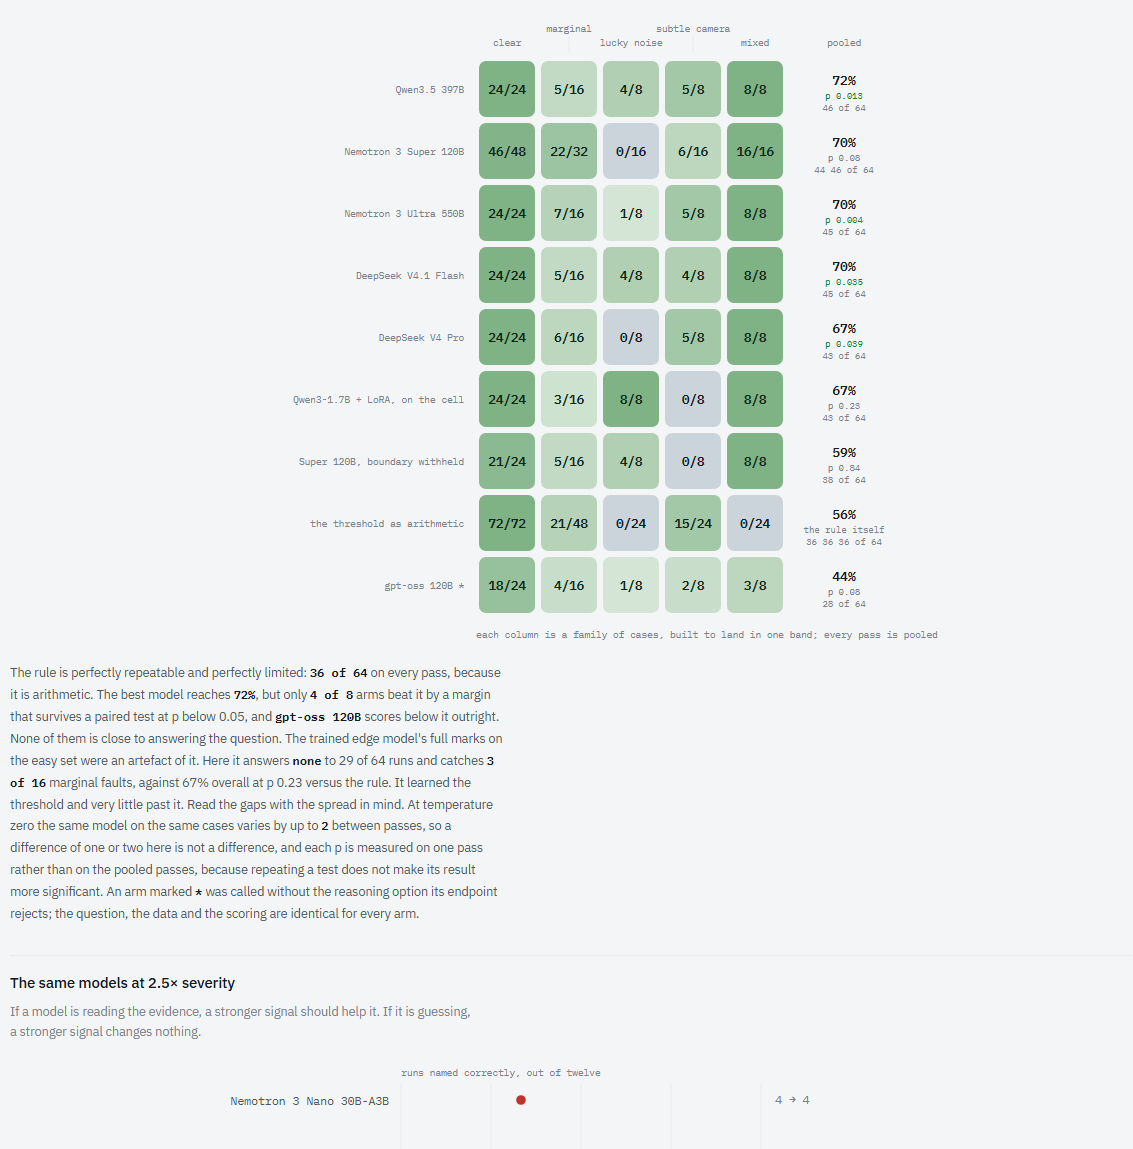
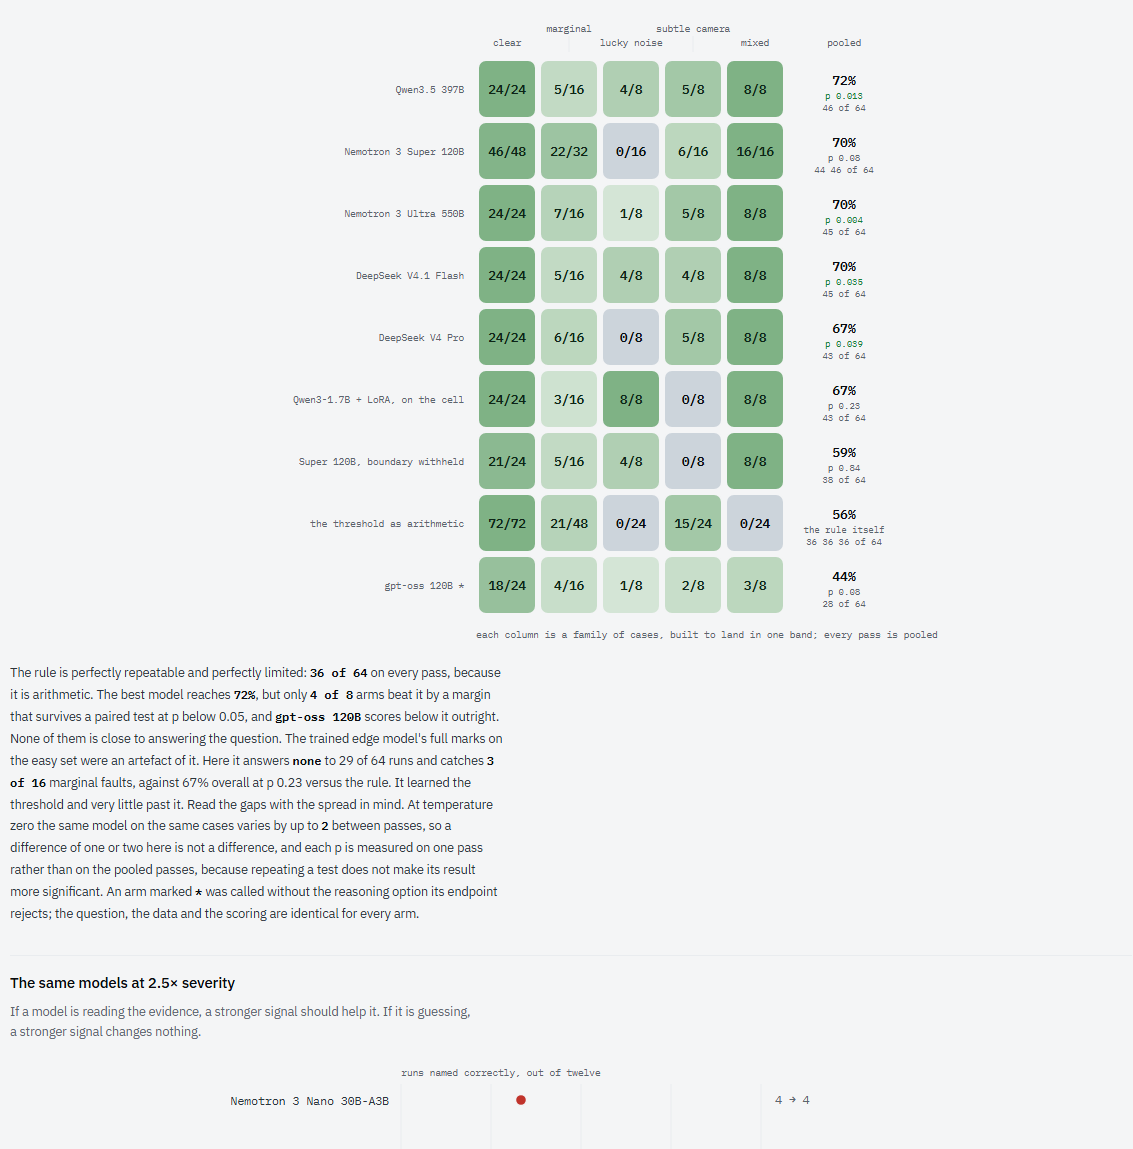
Stop following the desktop theme, and put real black in the light one
The dashboard was still opening dark. Light was the bare :root but a
prefers-color-scheme block sat under it, so a reader on a dark desktop got a
dark page after asking for a light one. That block is gone from the stylesheet,
from the 3D studio and from the toggle's own reading of the current theme.
Light is the page now; dark is opt in through the switch, and the choice sticks.

The light ink was too grey. Measured against the white card it went from 17.5,
7.3 and 3.9 to one, up to 19.7, 12.6 and 6.0. The muted step is the one that
mattered: 3.87 is under the 4.5 floor for normal text, and it is what every hint
and axis label on this dashboard is set in, so the smallest text on the page was
the least legible.

diff --git a/dashboard/static/theme.css b/dashboard/static/theme.css
@@ -2,10 +2,10 @@
    The restraint is deliberate: a surface this dense earns its structure from
    spacing and a hairline, not from a border round every object.
 
-   Both themes are designed, not inverted. Light is the bare :root so it is what
-   a viewer with no preference gets; dark is redefined twice, once behind
-   prefers-color-scheme for the system setting and once behind [data-theme] so an
-   explicit choice wins in either direction.
+   Both themes are designed, not inverted. Light is the page, full stop: it does
+   NOT follow prefers-color-scheme, because a reader on a dark desktop was getting
+   a dark dashboard when they had asked for a light one. Dark is opt in, through
+   the switch in the top bar, and the choice is remembered.
 
    Series colours are assigned to a model by identity and never reshuffled when a
    filter changes the series count. Each set is validated separately against its
@@ -25,9 +25,12 @@
   --line:        #dfe3e7;
   --hair:        #e9ecef;
 
-  --text-primary:   #141a20;
-  --text-secondary: #4d5862;
-  --text-muted:     #78838d;
+  /* Measured on the white card: 19.7, 12.6 and 6.0 to one. The muted step used
+     to sit at 3.87, under the 4.5 floor for normal text, and it is what every
+     hint and axis label on the dashboard is set in. */
+  --text-primary:   #080b0f;
+  --text-secondary: #2c343c;
+  --text-muted:     #5b656e;
 
   /* categorical, fixed order, validated against the light surface */
   --series-1: #1f6fd0;  /* Nano */
@@ -60,46 +63,6 @@
 
   --rail: 238px;
   --radius: 12px;
-}
-
-@media (prefers-color-scheme: dark) {
-  :root:not([data-theme="light"]) {
-    color-scheme: dark;
-
-    --bg:          #0b0e13;
-    --surface-1:   #10141b;
-    --surface-2:   #141922;
-    --surface-3:   #1a212b;
-    --line:        #1b222c;
-    --hair:        #161c25;
-
-    --text-primary:   #e8edf3;
-    --text-secondary: #97a4b4;
-    --text-muted:     #63717f;
-
-    --series-1: #3987e5;
-    --series-2: #d95926;
-    --series-3: #199e70;
-    --series-4: #c98500;
-    --series-5: #d55181;
-
-    --good:     #3fb950;
-    --warning:  #d29922;
-    --critical: #e5534b;
-
-    --before: #6b7683;
-    --after:  #7fc400;
-
-    --bar:          #0b0e13e6;
-    --glass:        #0b0f15bd;
-    --scroll-thumb: #1f2833;
-    --cell-ink:     #ffffff;
-    --band:         #232c38;
-    --hover:        #ffffff04;
-    --tip-bg:       #0d1218;
-    --tip-line:     #25303d;
-    --tip-shadow:   #000000a0;
-  }
 }
 
 :root[data-theme="dark"] {

diff --git a/dashboard/static/cell3d.js b/dashboard/static/cell3d.js
@@ -54,11 +54,11 @@ const STUDIO = {
 };
 
 function studio() {
-  const chosen = document.documentElement.dataset.theme;
-  const dark = chosen === "dark"
-    || (chosen !== "light"
-        && window.matchMedia("(prefers-color-scheme: dark)").matches);
-  return dark ? STUDIO.dark : STUDIO.light;
+  // Matches the stylesheet: light unless dark was explicitly chosen. The system
+  // preference is deliberately not consulted, or a dark desktop would give a dark
+  // viewport inside a light page.
+  return document.documentElement.dataset.theme === "dark"
+    ? STUDIO.dark : STUDIO.light;
 }
 
 export class Cell3D {

diff --git a/dashboard/static/app.js b/dashboard/static/app.js
@@ -85,11 +85,9 @@ function topbar(page) {
 
 /* ------------------------------------------------------------------- theme */
 
-/** What the page is showing right now, whether chosen or inherited. */
+/** What the page is showing. Light unless dark was explicitly chosen. */
 function activeTheme() {
-  const chosen = document.documentElement.dataset.theme;
-  if (chosen === "light" || chosen === "dark") return chosen;
-  return window.matchMedia("(prefers-color-scheme: dark)").matches ? "dark" : "light";
+  return document.documentElement.dataset.theme === "dark" ? "dark" : "light";
 }
 
 function themeIcon() {
